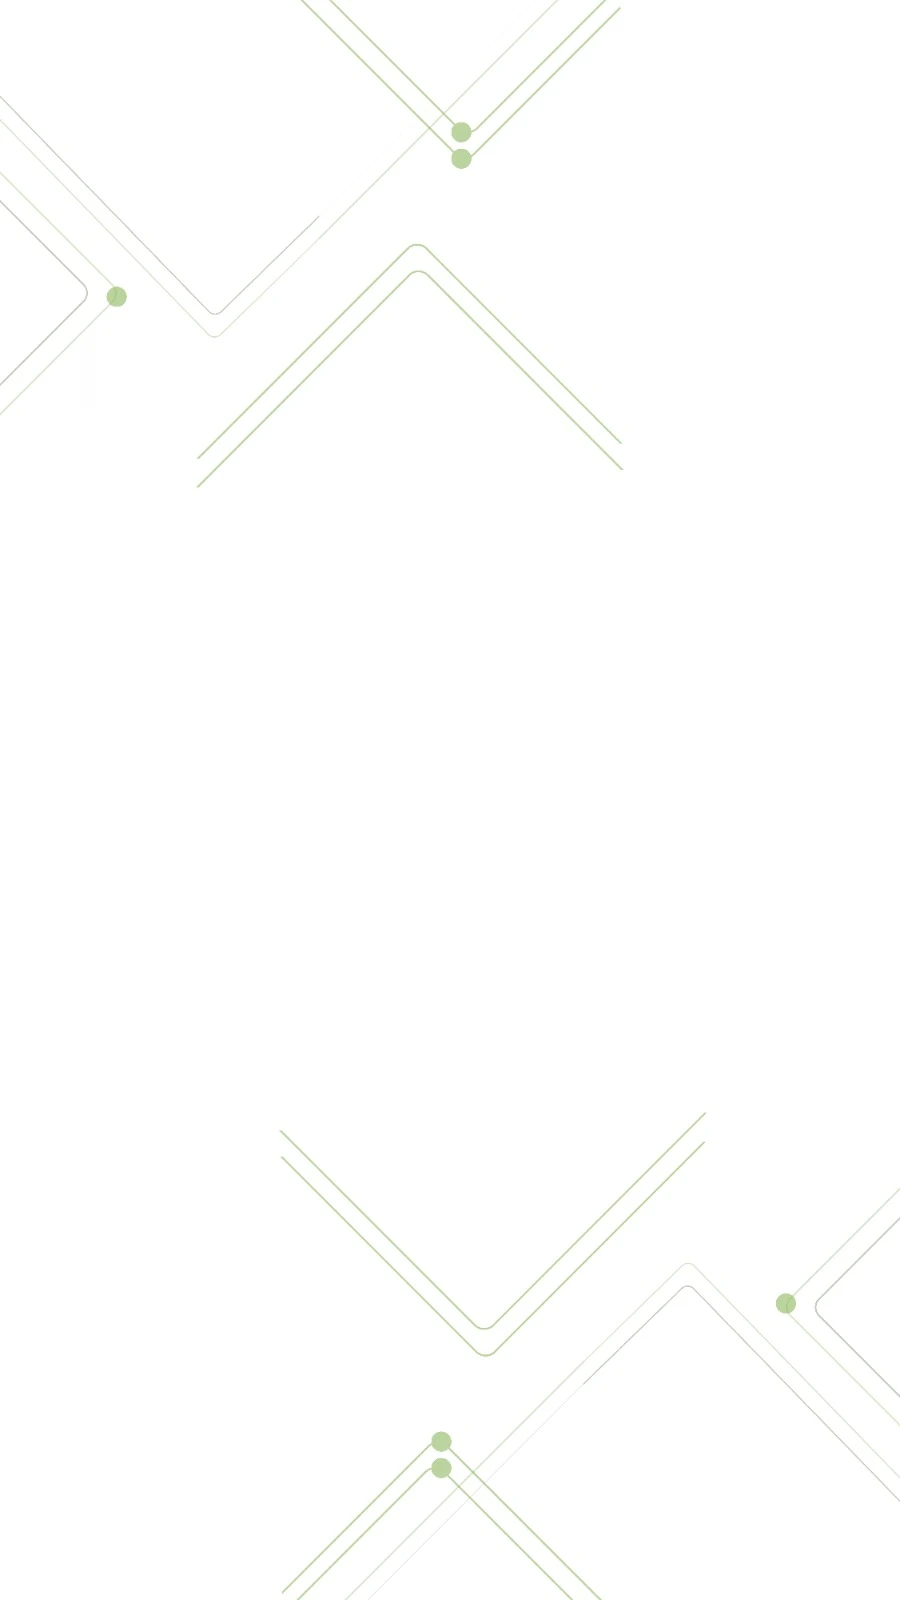
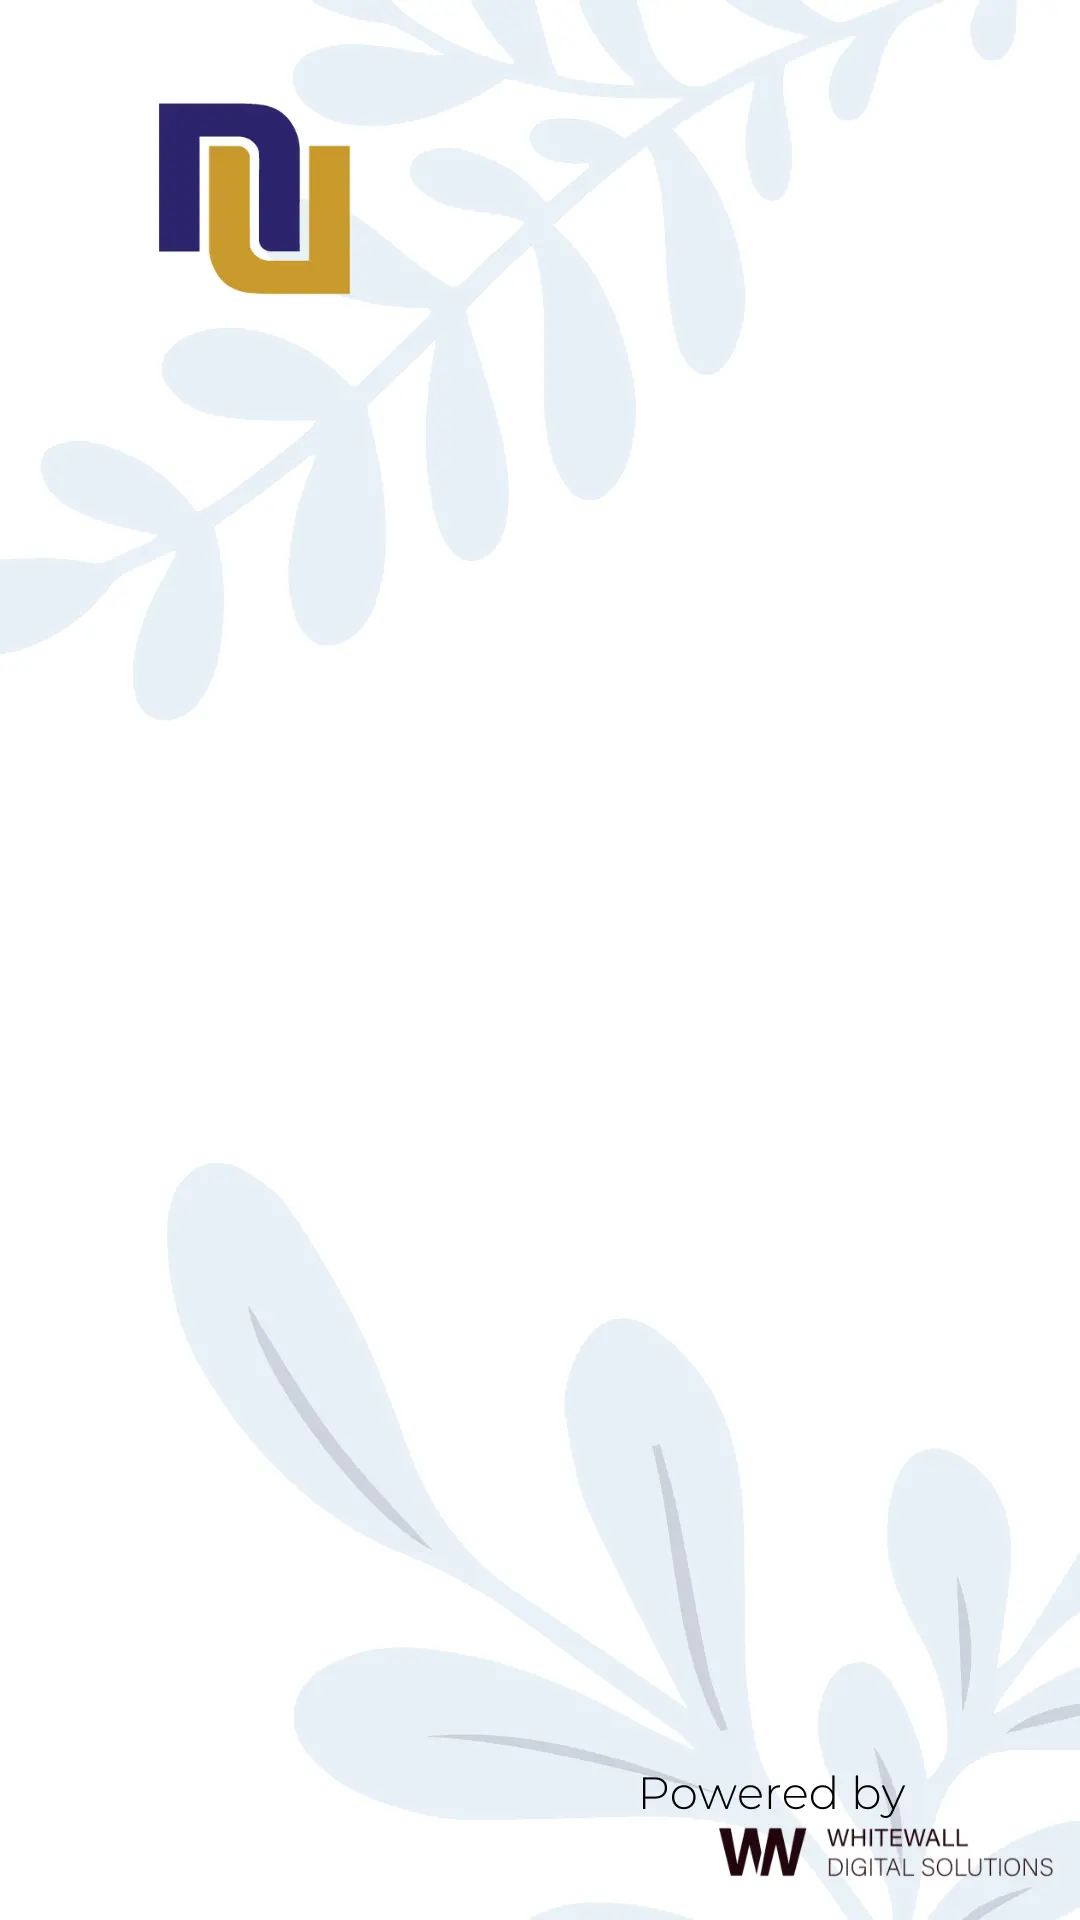
updated the theme and backgrounds

diff --git a/src/components/QuizScreen.js b/src/components/QuizScreen.js
@@ -37,28 +37,29 @@ function QuizScreen({ quizData, endGame, incrementScore, restartGame }) {
         position: "relative",
       }}
     >
-      {/* Restart Button - Fixed to the top-left corner */}
-      <Button
-        onClick={restartGame}
-        sx={{
-          position: "fixed",
-          top: "20px",
-          left: "20px",
-          fontSize: "20px", // Increased font size for visibility
-          backgroundColor: theme.palette.secondary.main,
-          color: "#FFFFFF",
-          padding: "12px 24px", // Increased padding for a larger button
-          borderRadius: "8px",
-          fontWeight: "bold",
-          zIndex: 1000,
-          "&:hover": {
-            backgroundColor: theme.palette.secondary.dark,
-          },
-        }}
-      >
-        إعادة
-        {/* "Restart" */}
-      </Button>
+      {/* Restart Button - Fixed to the top-right corner */}
+<Button
+  onClick={restartGame}
+  sx={{
+    position: "fixed",
+    top: "20px",
+    right: "20px", // Changed from left to right for top-right alignment
+    fontSize: "1.5rem", // Increased font size for visibility
+    backgroundColor: theme.palette.secondary.main,
+    color: "#FFFFFF",
+    padding: "12px 24px", // Increased padding for a larger button
+    borderRadius: "8px",
+    fontWeight: "bold",
+    zIndex: 1000,
+    "&:hover": {
+      backgroundColor: theme.palette.secondary.dark,
+    },
+  }}
+>
+  إعادة
+  {/* "Restart" */}
+</Button>
+
 
       {/* Display Question Number */}
       <Typography

diff --git a/src/components/SelectionScreen.js b/src/components/SelectionScreen.js
@@ -56,18 +56,14 @@ function SelectionScreen({ startQuiz, goToTeam }) {
           <Grid item xs={12} sm={6}>
             <Button
               variant="contained"
+              color='primary'
               fullWidth
               onClick={startQuiz} // Go to quiz
               sx={{
-                backgroundColor: 'primary.main',
-                color: '#fff',
                 fontWeight: 'bold',
                 padding: '12px',
                 textTransform: 'none',
                 borderRadius: '8px',
-                '&:hover': {
-                  backgroundColor: 'primary.light',
-                },
               }}
             >
               <Typography variant='h6' sx={{ fontWeight: 'bold' }}>
@@ -80,17 +76,13 @@ function SelectionScreen({ startQuiz, goToTeam }) {
             <Button
               variant="contained"
               fullWidth
+              color='primary'
               onClick={goToTeam} // Go to team screen
               sx={{
-                backgroundColor: 'primary.main',
-                color: '#fff',
                 fontWeight: 'bold',
                 padding: '12px',
                 textTransform: 'none',
                 borderRadius: '8px',
-                '&:hover': {
-                  backgroundColor: 'primary.light',
-                },
               }}
             >
               <Typography variant='h6' sx={{ fontWeight: 'bold' }}>

diff --git a/src/components/StartScreen.js b/src/components/StartScreen.js
@@ -22,22 +22,17 @@ function StartScreen({ startGame }) {
       </Typography>
 
       <Button
-        variant="outlined"
+        variant="contained"
+        color="primary"
         onClick={startGame}
         sx={{
           position: 'absolute',
           bottom: '20px',
           left: '20px',
-          
           padding: '10px 20px',
           fontWeight: 'bold',
           fontSize: '1.5rem',
-          backgroundColor: 'primary.light',
-          color: '#fff',
           borderRadius: '8px',
-          '&:hover': {
-            backgroundColor: 'primary.light',
-          },
         }}
       >
         بدء الاختبار

diff --git a/src/theme.js b/src/theme.js
@@ -4,11 +4,11 @@ const theme = createTheme({
   direction: "rtl", // Enable Right-to-Left text direction
   palette: {
     primary: {
-      main: "#394E29", // Sustainable Green
-      light: "#87B353", // OQGN Green
+      main: "#0093B4", 
+      light: "#A1C5FF",
     },
     secondary: {
-      main: "#F58220", // OQGN Orange
+      main: "#C99B2D",
     },
     success: {
       main: "#32CD32", // Lime Green for correct answers or success
